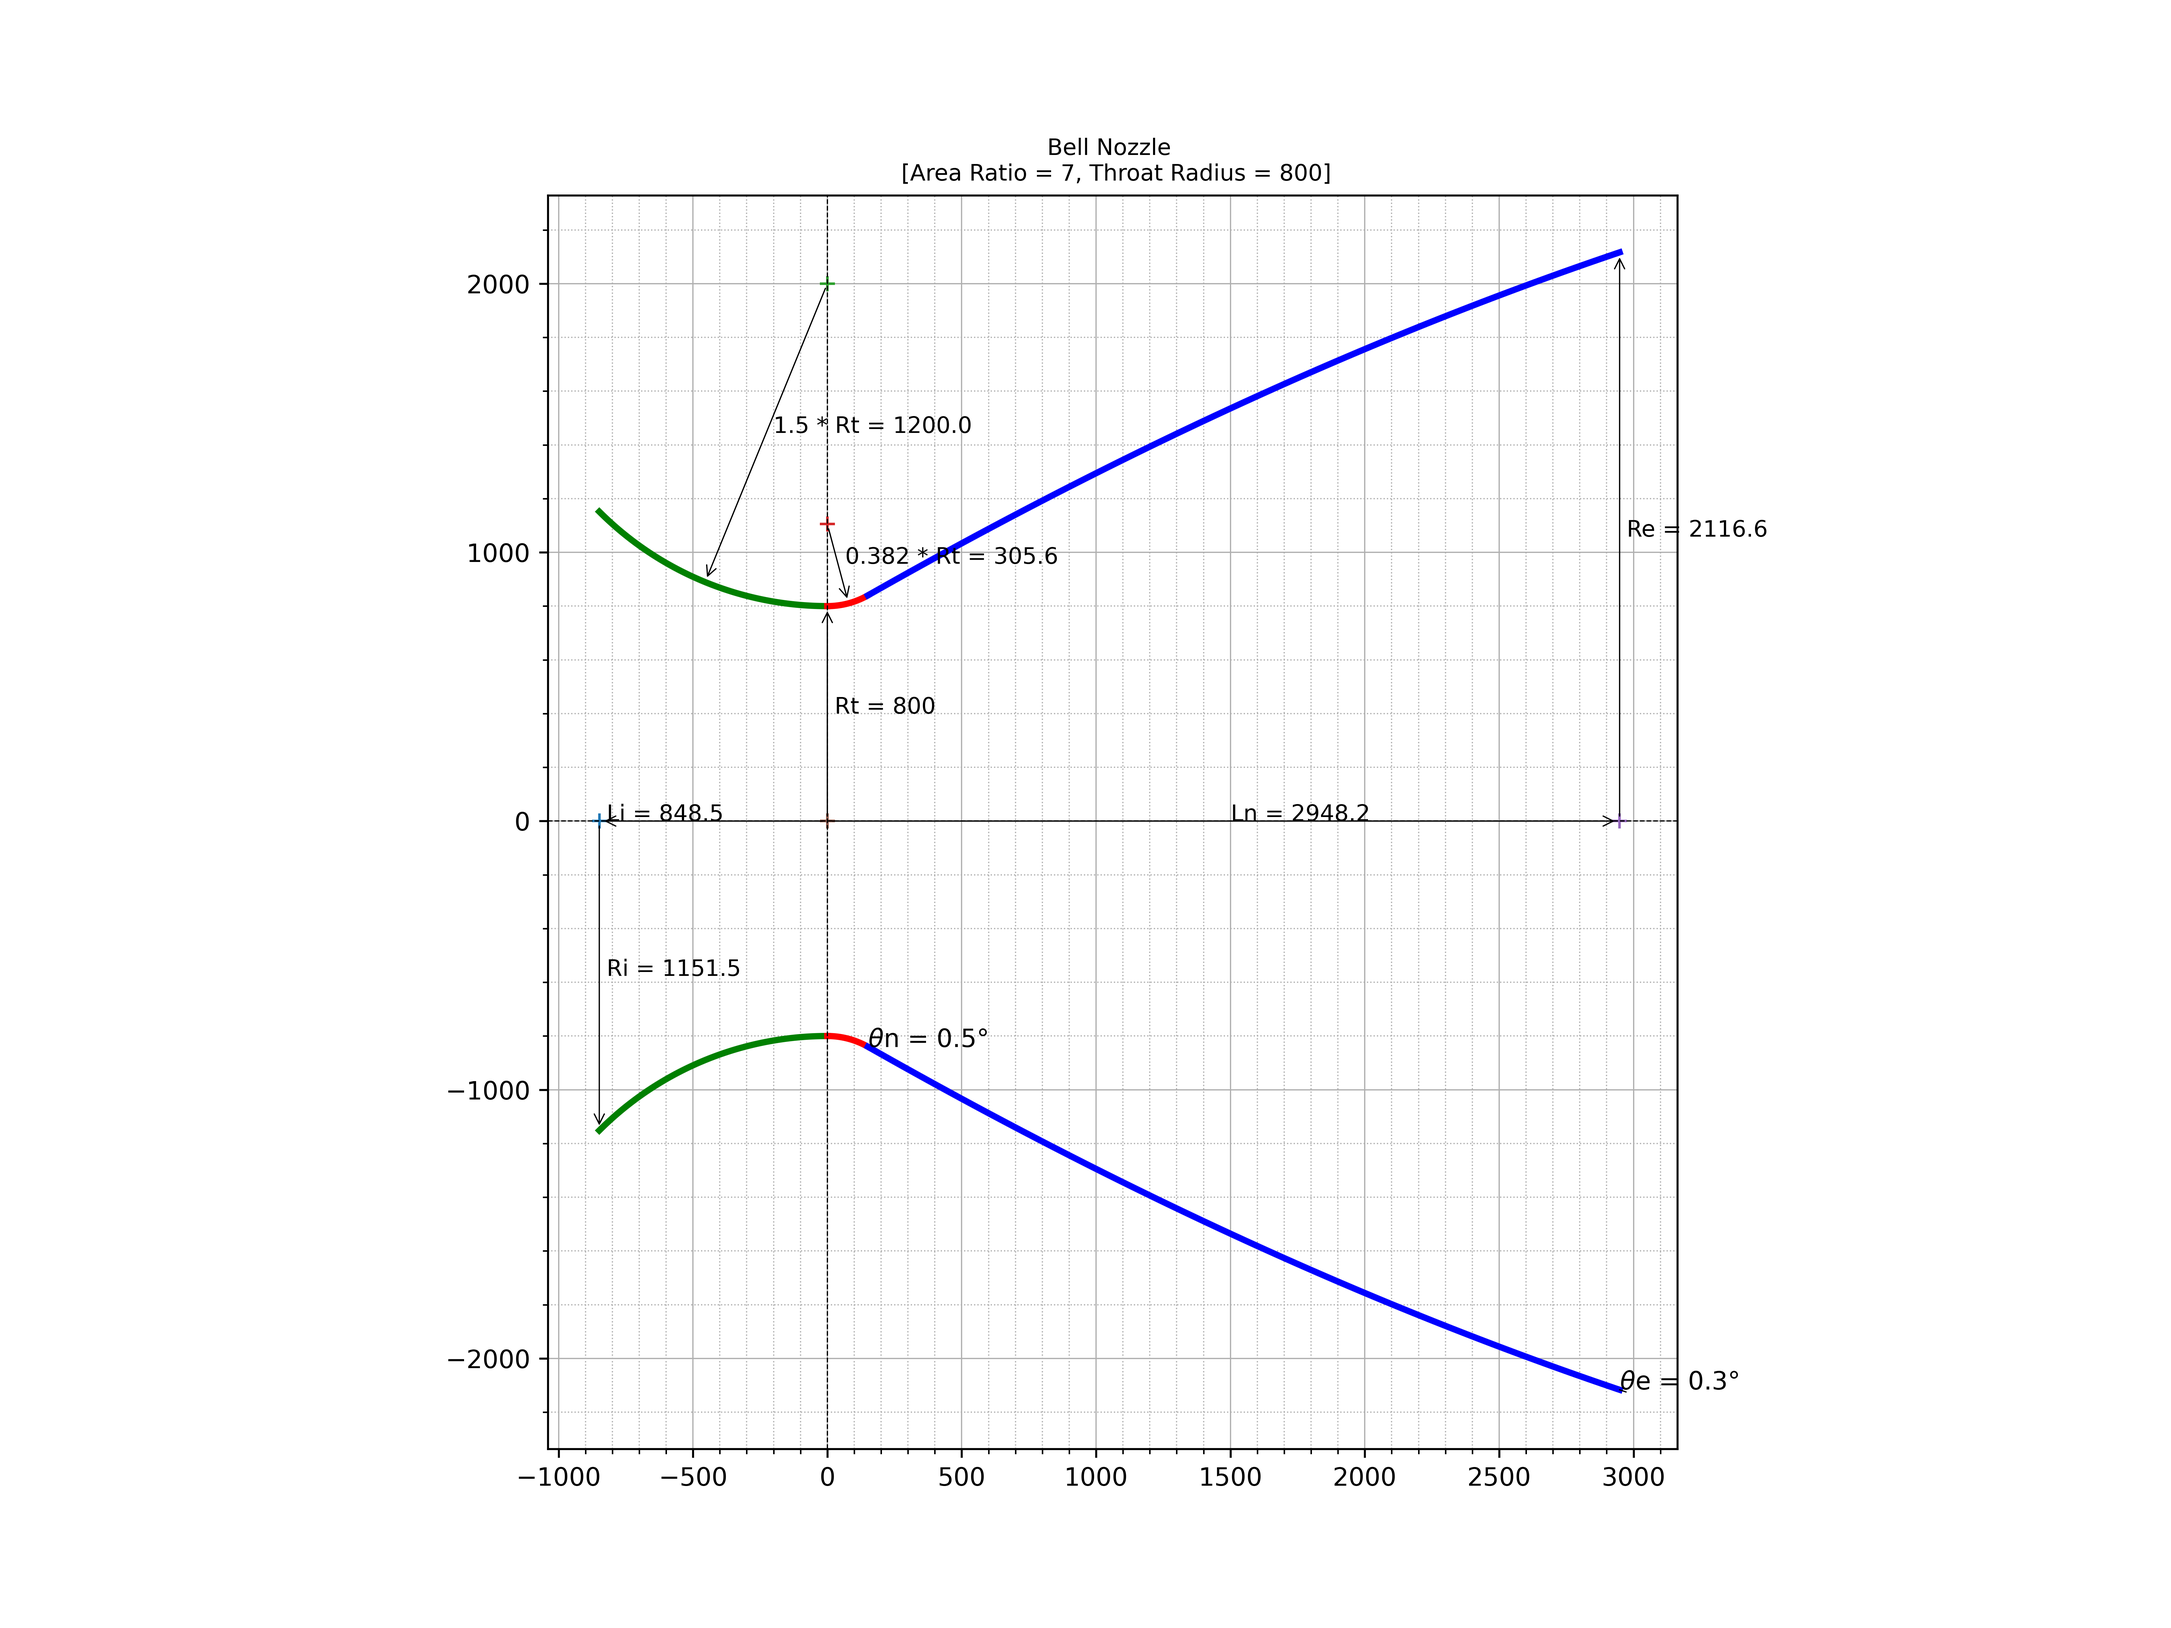
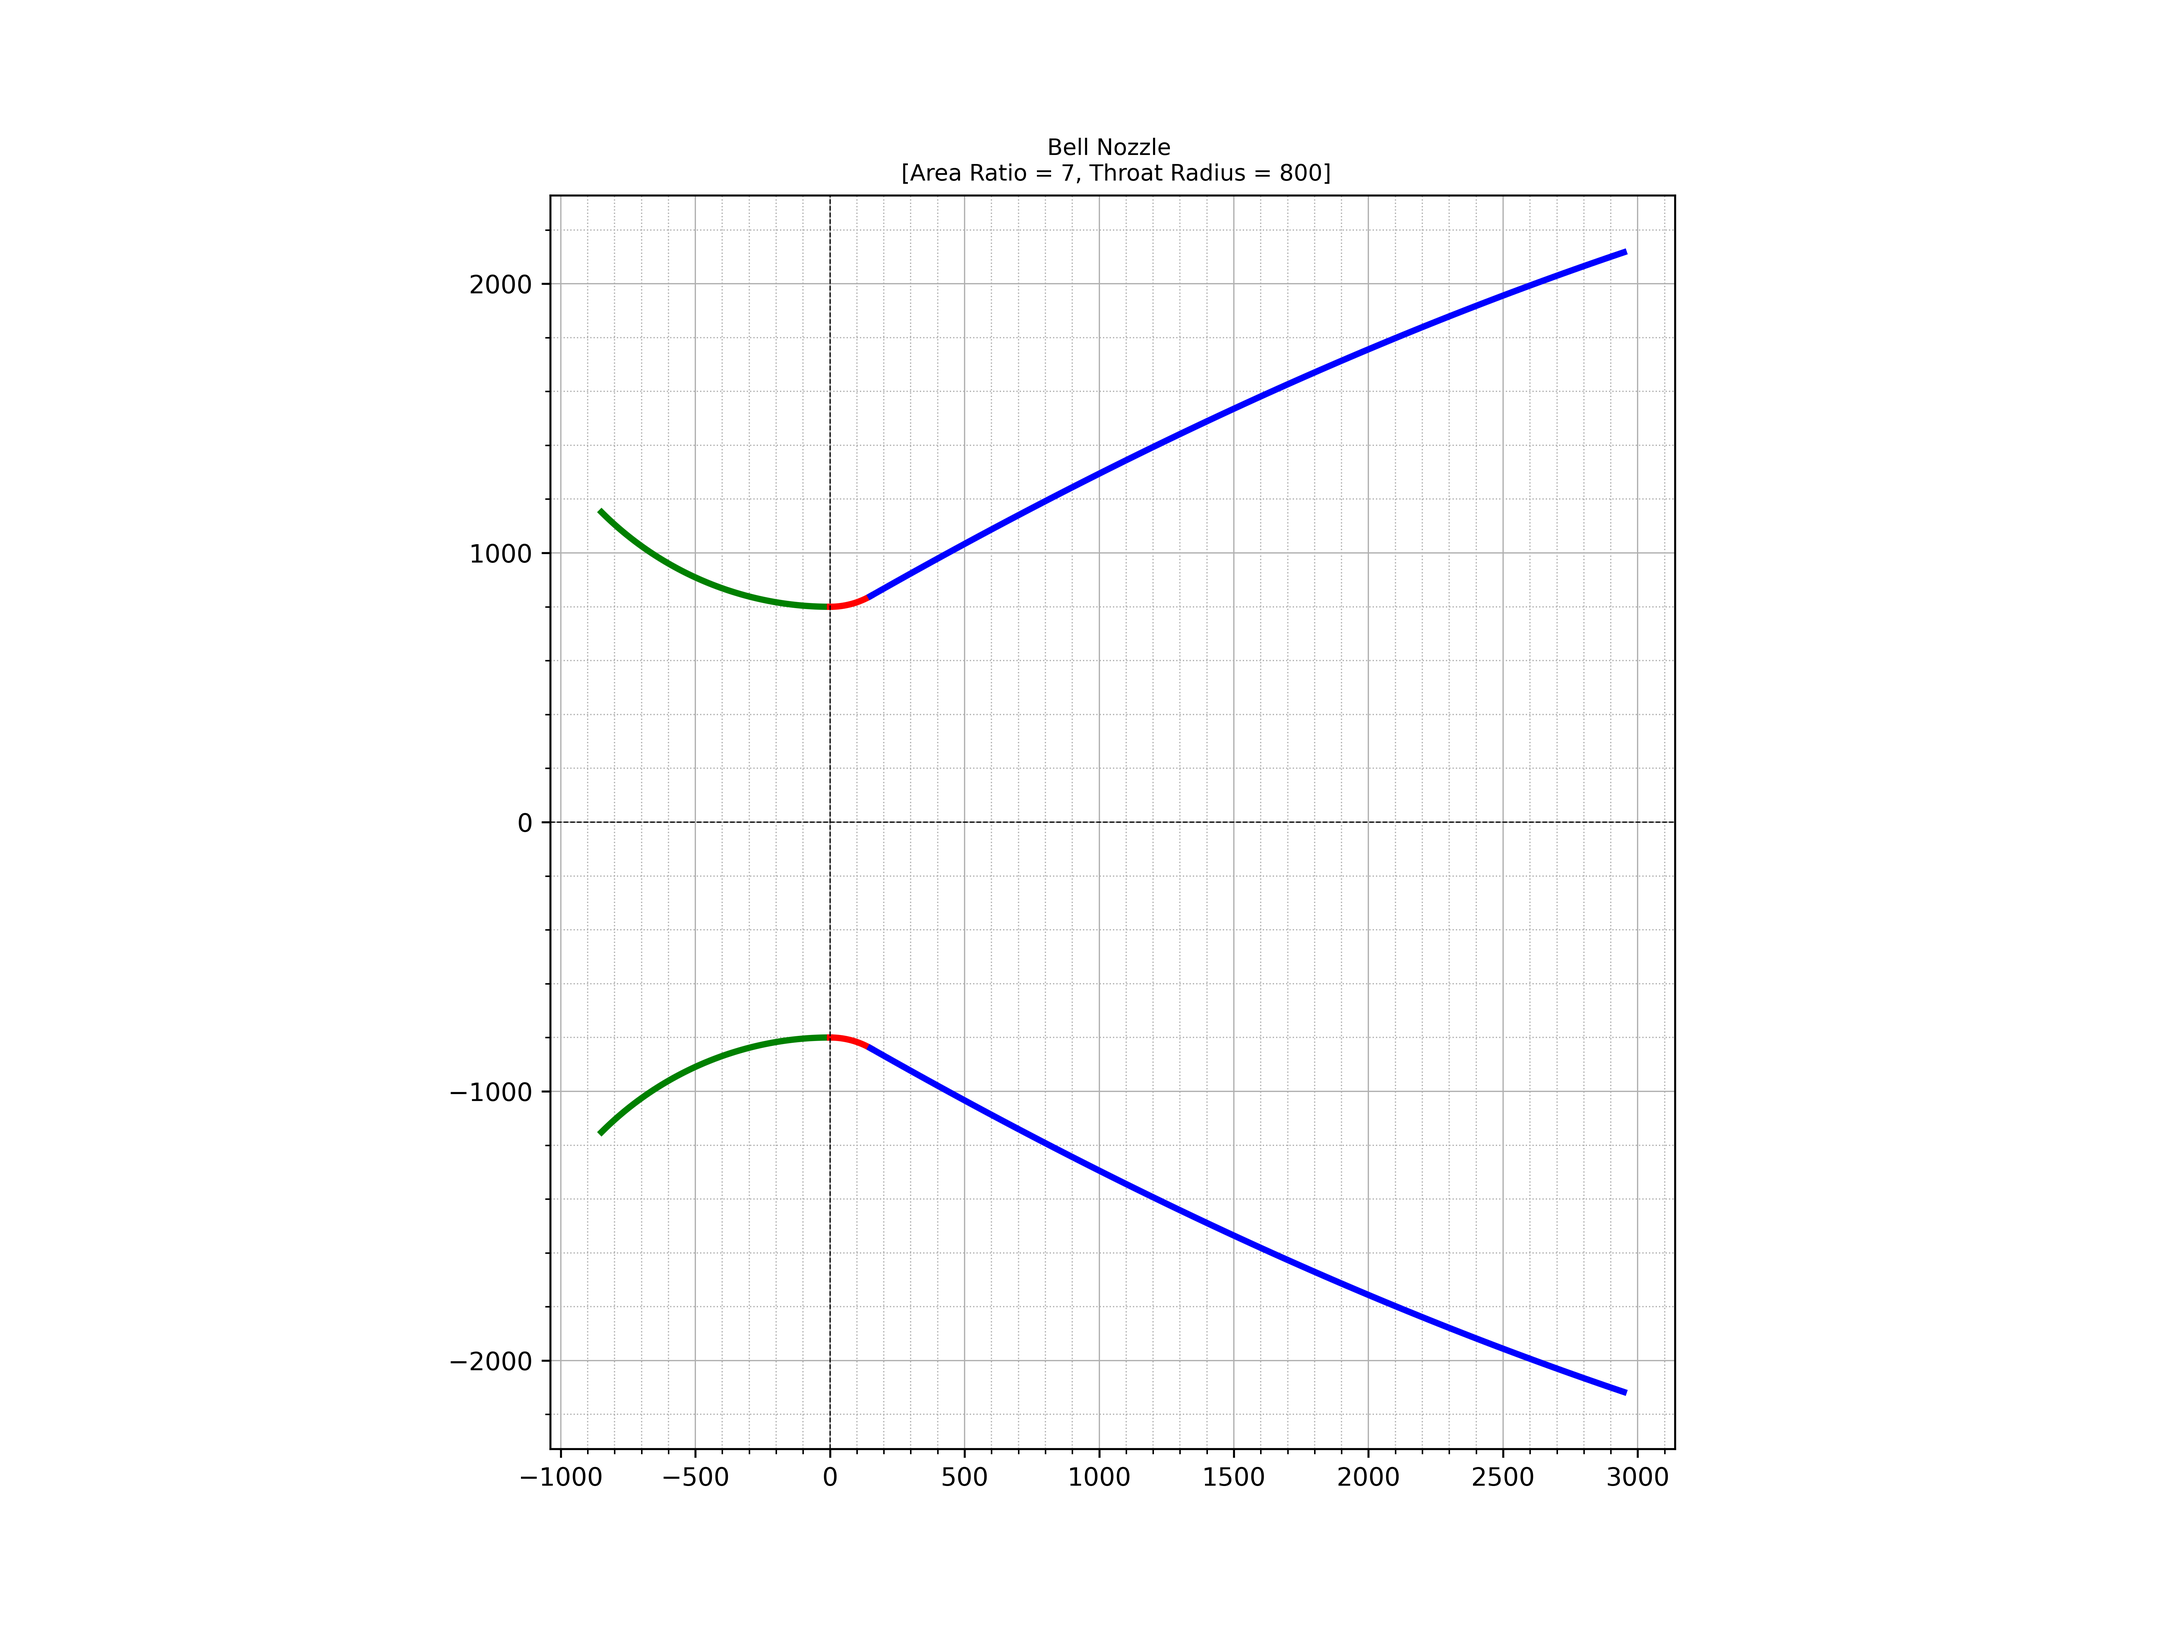
Adding: -Basic github action to just run the example script and return non 0 if error -Allow for optional annotations -Updating readme

diff --git a/bell_nozzle.py b/bell_nozzle.py
@@ -220,14 +220,14 @@ def find_nearest(array, value):
     return idx, array[idx]  
 
 # nozzle contour plot
-def plot_nozzle(ax, title, aratio, Rt, angles, contour):
+def plot_nozzle(ax, title, aratio, Rt, angles, contour, ENABLE_ANNOTATIONS=True):
 	# wall angles
-	nozzle_length = angles[0]; theta_n = angles[1]; theta_e = angles[2];
+	nozzle_length = angles[0]; theta_n = angles[1]; theta_e = angles[2]
 	
 	# contour values
-	xe = contour[0];   	ye = contour[1];   	nye = contour[2];
-	xe2 = contour[3]; 	ye2 = contour[4];  	nye2 = contour[5];
-	xbell = contour[6]; ybell = contour[7]; nybell = contour[8];
+	xe = contour[0];   	ye = contour[1];   	nye = contour[2]
+	xe2 = contour[3]; 	ye2 = contour[4];  	nye2 = contour[5]
+	xbell = contour[6]; ybell = contour[7]; nybell = contour[8]
 	
 	# plot
 
@@ -242,79 +242,84 @@ def plot_nozzle(ax, title, aratio, Rt, angles, contour):
 	x1 = xe[0]; y1 = 0
 	x2 = xe[0]; y2 = nye[0]
 	dist = math.sqrt((x2 - x1)**2 + (y2 - y1)**2)
-	# draw arrow, inlet radial line [x1, y1] to [x2, y2] 
-	text = ' Ri = '+ str(round(dist,1))
-	ax.plot(xe[0], 0, '+' )
-	# draw dimension from [x1, y1] to [x2, y2] 
-	ax.annotate( "", [x1, y1], [x2, y2] , arrowprops=dict(lw=0.5, arrowstyle='<-') )
-	ax.text((x1+x2)/2, (y1+y2)/2, text, fontsize=9 )	
 
-	# nozzle inlet length line [0,0] to [xe[0], 0]
-	text = ' Li = ' + str( round( abs(xe[0]), 1) ) 
-	ax.plot(0,0, '+' )
-	# draw dimension from [0,0] to [xe[0], 0]
-	ax.annotate( "", [0,0], [xe[0], 0], arrowprops=dict(lw=0.5, arrowstyle='<-') )
-	ax.text( xe[0], 0, text, fontsize=9 )	
+	if ENABLE_ANNOTATIONS:
+		# draw arrow, inlet radial line [x1, y1] to [x2, y2] 
+		text = ' Ri = '+ str(round(dist,1))
+		ax.plot(xe[0], 0, '+' )
+		# draw dimension from [x1, y1] to [x2, y2] 
+		ax.annotate( "", [x1, y1], [x2, y2] , arrowprops=dict(lw=0.5, arrowstyle='<-') )
+		ax.text((x1+x2)/2, (y1+y2)/2, text, fontsize=9 )	
+
+		# nozzle inlet length line [0,0] to [xe[0], 0]
+		text = ' Li = ' + str( round( abs(xe[0]), 1) ) 
+		ax.plot(0,0, '+' )
+		# draw dimension from [0,0] to [xe[0], 0]
+		ax.annotate( "", [0,0], [xe[0], 0], arrowprops=dict(lw=0.5, arrowstyle='<-') )
+		ax.text( xe[0], 0, text, fontsize=9 )	
 		
-	# find mid point and draw arc radius
-	i = int(len(xe)/2)
-	xcenter = 0; 	ycenter = 2.5 * Rt;  
-	xarch = xe[i];  yarch = ye[i]
-	# draw arrow, enterant radial line [xcenter, ycenter] to [xarch, yarch] 
-	text = ' 1.5 * Rt = '+ str( round( 1.5 * Rt, 1 ) ) 
-	ax.plot(xcenter, ycenter, '+' )
-	# draw dimension from [xcenter, ycenter] to [xarch, yarch]
-	ax.annotate( "", [xcenter, ycenter], [xarch, yarch], arrowprops=dict(lw=0.5, arrowstyle='<-') )
-	ax.text((xarch+xcenter)/2, (yarch+ycenter)/2, text, fontsize=9 )	
+		# find mid point and draw arc radius
+		i = int(len(xe)/2)
+		xcenter = 0; 	ycenter = 2.5 * Rt;  
+		xarch = xe[i];  yarch = ye[i]
+		# draw arrow, enterant radial line [xcenter, ycenter] to [xarch, yarch] 
+		text = ' 1.5 * Rt = '+ str( round( 1.5 * Rt, 1 ) ) 
+		ax.plot(xcenter, ycenter, '+' )
+		# draw dimension from [xcenter, ycenter] to [xarch, yarch]
+		ax.annotate( "", [xcenter, ycenter], [xarch, yarch], arrowprops=dict(lw=0.5, arrowstyle='<-') )
+		ax.text((xarch+xcenter)/2, (yarch+ycenter)/2, text, fontsize=9 )	
 		
-	# throat radius line [0,0] to [xe[-1], ye[-1]]
-	text = ' Rt = '+ str(Rt)
-	# draw dimension from [0,0] to [xe[-1], ye[-1]]
-	ax.annotate( "", [0,0], [xe[-1], ye[-1]], arrowprops=dict(lw=0.5, arrowstyle='<-') )
-	ax.text( xe[-1]/2, ye[-1]/2, text, fontsize=9 )	
+		# throat radius line [0,0] to [xe[-1], ye[-1]]
+		text = ' Rt = '+ str(Rt)
+		# draw dimension from [0,0] to [xe[-1], ye[-1]]
+		ax.annotate( "", [0,0], [xe[-1], ye[-1]], arrowprops=dict(lw=0.5, arrowstyle='<-') )
+		ax.text( xe[-1]/2, ye[-1]/2, text, fontsize=9 )	
 
 	# throat exit
 	ax.plot(xe2, ye2, linewidth=2.5, color='r')
 	ax.plot(xe2, nye2, linewidth=2.5, color='r')
-	# find mid point and draw arc radius
-	i = int(len(xe2)/2)
-	xcenter2 = 0; 	ycenter2 = 1.382 * Rt;  
-	xarch2 = xe2[i];  yarch2 = ye2[i]
-	# draw arrow, exit radial line from [xcenter2,ycenter2] to [xarch2, yarch2]
-	text = ' 0.382 * Rt = '+ str( round(0.382 * Rt,1) ) 
-	ax.plot(xcenter2, ycenter2, '+' )
-	# draw dimension from [xcenter2,ycenter2] to [xarch2, yarch2]
-	ax.annotate( "", [xcenter2,ycenter2], [xarch2, yarch2], arrowprops=dict(lw=0.5, arrowstyle='<-') )
-	ax.text((xarch2+xcenter2)/2, (yarch2+ycenter2)/2, text, fontsize=9 )
+	
+	if ENABLE_ANNOTATIONS:
+		# find mid point and draw arc radius
+		i = int(len(xe2)/2)
+		xcenter2 = 0; 	ycenter2 = 1.382 * Rt;  
+		xarch2 = xe2[i];  yarch2 = ye2[i]
+		# draw arrow, exit radial line from [xcenter2,ycenter2] to [xarch2, yarch2]
+		text = ' 0.382 * Rt = '+ str( round(0.382 * Rt,1) ) 
+		ax.plot(xcenter2, ycenter2, '+' )
+		# draw dimension from [xcenter2,ycenter2] to [xarch2, yarch2]
+		ax.annotate( "", [xcenter2,ycenter2], [xarch2, yarch2], arrowprops=dict(lw=0.5, arrowstyle='<-') )
+		ax.text((xarch2+xcenter2)/2, (yarch2+ycenter2)/2, text, fontsize=9 )
 
-	# draw theta_n, throat inflexion angle
-	adj_text = 2
-	origin	= [ xe2[-1], nye2[-1]-adj_text ]
-	degree_symbol = r'$\theta$n'	
-	draw_angle_arc(ax, theta_n, origin, degree_symbol )
+		# draw theta_n, throat inflexion angle
+		adj_text = 2
+		origin	= [ xe2[-1], nye2[-1]-adj_text ]
+		degree_symbol = r'$\theta$n'	
+		draw_angle_arc(ax, theta_n, origin, degree_symbol )
 
 	# bell section
 	ax.plot(xbell, ybell, linewidth=2.5, color='b')
 	ax.plot(xbell, nybell, linewidth=2.5, color='b')
 
-	# throat radius line [0,0] to [xe[-1], ye[-1]]
-	text = ' Re = ' + str( round( (math.sqrt(aratio) * Rt), 1) ) 
-	ax.plot(xbell[-1],0, '+' )
-	# draw dimension from [0,0] to [xe[-1], ye[-1]]
-	ax.annotate( "", [xbell[-1],0], [xbell[-1], ybell[-1]], arrowprops=dict(lw=0.5, arrowstyle='<-') )
-	ax.text( xbell[-1], ybell[-1]/2, text, fontsize=9 )	
+	if ENABLE_ANNOTATIONS:
+		# throat radius line [0,0] to [xe[-1], ye[-1]]
+		text = ' Re = ' + str( round( (math.sqrt(aratio) * Rt), 1) ) 
+		ax.plot(xbell[-1],0, '+' )
+		# draw dimension from [0,0] to [xe[-1], ye[-1]]
+		ax.annotate( "", [xbell[-1],0], [xbell[-1], ybell[-1]], arrowprops=dict(lw=0.5, arrowstyle='<-') )
+		ax.text( xbell[-1], ybell[-1]/2, text, fontsize=9 )	
 
-	# draw theta_n, throat exit angle
-	origin	= [ xbell[-1], nybell[-1] ]
-	degree_symbol = r'$\theta$e'	
-	draw_angle_arc(ax, theta_e, origin, degree_symbol )
+		# draw theta_n, throat exit angle
+		origin	= [ xbell[-1], nybell[-1] ]
+		degree_symbol = r'$\theta$e'	
+		draw_angle_arc(ax, theta_e, origin, degree_symbol )
 
-	# nozzle length line [0,0] to [xe[-1], ye[-1]]
-	text = ' Ln = ' + str( round( nozzle_length, 1) ) 
-	ax.plot(0,0, '+' )
-	# draw dimension from [0,0] to [xbell[-1], 0]
-	ax.annotate( "", [0,0], [xbell[-1], 0], arrowprops=dict(lw=0.5, arrowstyle='<-') )
-	ax.text( xbell[-1]/2, 0, text, fontsize=9 )	
+		# nozzle length line [0,0] to [xe[-1], ye[-1]]
+		text = ' Ln = ' + str( round( nozzle_length, 1) ) 
+		ax.plot(0,0, '+' )
+		# draw dimension from [0,0] to [xbell[-1], 0]
+		ax.annotate( "", [0,0], [xbell[-1], 0], arrowprops=dict(lw=0.5, arrowstyle='<-') )
+		ax.text( xbell[-1]/2, 0, text, fontsize=9 )	
 				
 	# axis
 	ax.axhline(color='black', lw=0.5, linestyle="dashed")
@@ -387,9 +392,9 @@ def _set_axes_radius(ax, origin, radius):
 # 3d plot
 def plot3D(ax, contour):
 	# unpack the contour values
-	xe = contour[0];   	ye = contour[1];   	nye = contour[2];
-	xe2 = contour[3]; 	ye2 = contour[4];  	nye2 = contour[5];
-	xbell = contour[6]; ybell = contour[7]; nybell = contour[8];
+	xe = contour[0];   	ye = contour[1];   	nye = contour[2]
+	xe2 = contour[3]; 	ye2 = contour[4];  	nye2 = contour[5]
+	xbell = contour[6]; ybell = contour[7]; nybell = contour[8]
 	# collect and append array values
 	x = []; y = [];
 	x = np.append(x, xe);  y = np.append(y, ye)	
@@ -412,7 +417,7 @@ def plot3D(ax, contour):
 	return 0
 
 # plot driver
-def plot(title, aratio, Rt, angles, contour, image_path=None):
+def plot(title, aratio, Rt, angles, contour, ENABLE_ANNOTATIONS, image_path=None):
 
 	if image_path is not None:
 		# Split into base and extension and customie name.png
@@ -423,7 +428,7 @@ def plot(title, aratio, Rt, angles, contour, image_path=None):
 		# Plot 2D view
 		fig, ax = plt.subplots(figsize=(12, 9), dpi=600)
 		# plot some 2d information
-		plot_nozzle(ax, title, aratio, Rt, angles, contour)
+		plot_nozzle(ax, title, aratio, Rt, angles, contour, ENABLE_ANNOTATIONS)
 		# Save
 		plt.savefig(image_path_2d, dpi=600)
 		plt.clf()
@@ -445,7 +450,7 @@ def plot(title, aratio, Rt, angles, contour, image_path=None):
 		fig = plt.figure(figsize=(12,9))
 		# plot some 2d information
 		ax1 = fig.add_subplot(121)
-		plot_nozzle(ax1, title, aratio, Rt, angles, contour)
+		plot_nozzle(ax1, title, aratio, Rt, angles, contour, ENABLE_ANNOTATIONS)
 
 		# Plot 3D view
 		ax2 = fig.add_subplot(122, projection='3d')

diff --git a/example.py b/example.py
@@ -11,13 +11,14 @@ import os
 from bell_nozzle import bell_nozzle, plot
 
 #------------------------------------------------------
-# Constants
+# Constants for both nozzles
 #------------------------------------------------------
 k 	= 1.21		# ratio of specific heats
 l_percent = 60	# nozzle length percentage (60, 80, 90)
 
 #------------------------------------------------------
-# Nozzle 1: Typical Upper Stage - Saves plots to png
+# Nozzle 1: Typical Upper Stage
+# Shows annotations and just shows plot (no saving to png)
 #------------------------------------------------------
 aratio = 25 	# Ae / At	
 Rt = 40 		# {'radius_throat': 40, 'radius_exit': 210}		
@@ -27,10 +28,12 @@ angles, contour = bell_nozzle(k, aratio, Rt, l_percent)
 
 # plot contour
 title = 'Bell Nozzle \n [Area Ratio = ' + str(round(aratio,1)) + ', Throat Radius = ' + str(round(Rt,1)) + ']' 
-plot(title, aratio, Rt, angles, contour)
+ENABLE_ANNOTATIONS=True
+plot(title, aratio, Rt, angles, contour, ENABLE_ANNOTATIONS)
 
 #------------------------------------------------------
-# Nozzle 2: Typical lower stage booster values - Shows plots
+# Nozzle 2: Typical lower stage booster values
+# Does not show annotations and saves to png
 #------------------------------------------------------
 aratio = 7   # Ae / At	
 Rt = 800 	 # [your unit] Throat radius
@@ -41,4 +44,5 @@ angles, contour = bell_nozzle(k, aratio, Rt, l_percent)
 # plot contour
 image_path = os.path.join(os.path.dirname(__file__), 'output', 'lower_stage_bell_nozzle.png')
 title = 'Bell Nozzle \n [Area Ratio = ' + str(round(aratio,1)) + ', Throat Radius = ' + str(round(Rt,1)) + ']' 
-plot(title, aratio, Rt, angles, contour, image_path)
+ENABLE_ANNOTATIONS=False
+plot(title, aratio, Rt, angles, contour, ENABLE_ANNOTATIONS, image_path)

diff --git a/README.md b/README.md
@@ -120,22 +120,49 @@ Qy = (m1 C2 − m2 C1 ) / (m1 − m2 ) [Eqn. 10]
 ***    
 
 ## Setup
-Script is written with python (Version: 3.6) on linux. Additional modules required :   
+Create a virtual environment called `venv`
+`python -m venv venv`
 
-* numpy  (tested with Version: 1.18.4 )
-* matplotlib  (tested with Version: 2.1.1 )
+If on Linux, source your virtual environment with the following command:
+`source venv/bin/activate`
 
+Alternatively, if on Windows you can source the virtual environment with the folllowing command via the command prompt (`cmd`):
+`venv\Scripts\activate.bat`
+
+Once the virtual env is sourced, install the python packages:
+`pip install -r requirements.txt`
 
 ## How to run   
-* Verify and install required modules  
-* Modify in main function, the variables  
-'aratio = 7.72',   
-'throat_radius = 40' and  
-'l_percent = 80' (only 60, 80 and 90 data values are built-in)
-* run `python bell_nozzle.py` 
+The file `example.py` shows how a user can run the code in two ways, where images can be displayed or saved off to a png and with optional annotations.
+
+For either method make sure to set:
+* `k` (Ratio of specific heats)
+* `l_percent` (Nozzle length percentage)
+* `aratio` (Area of exit / Area of throat)
+* `Rt` (Radius of throat)
+
+Then call the following function to return the rao bell nozzle contour:
+`angles, contour = bell_nozzle(k, aratio, Rt, l_percent)`
+
+To simply show the plots after the code executes (and perhaps with annotations):
+- Declare a `title`
+- Set `ENABLE_ANNOTATIONS` to `True`
+- Then call:
+`plot(title, aratio, Rt, angles, contour, ENABLE_ANNOTATIONS)`
+
+To optionally save the plots off to a png instead (and perhaps turn off the annotations):
+- Declare a `title`
+- Set `ENABLE_ANNOTATIONS` to `False`
+- Define a fully qualified `image_path`
+- Then call:
+`plot(title, aratio, Rt, angles, contour, ENABLE_ANNOTATIONS, image_path)`
+
+A user can simply run the example code as well to see both versions run with:
+`python example.py` (or `python3 example.py` if the user has not added python3 to the path)
 
 ## Updates   
 * [29Jan2021] - Included a 3D view along with the 2D contour plot
+* [30Apr2025] - Allowing for discrete calls where the plots can be saved with optional annotations, adding basic github actions, and requirements.txt for virtual env
 
 
 ## To-do list
